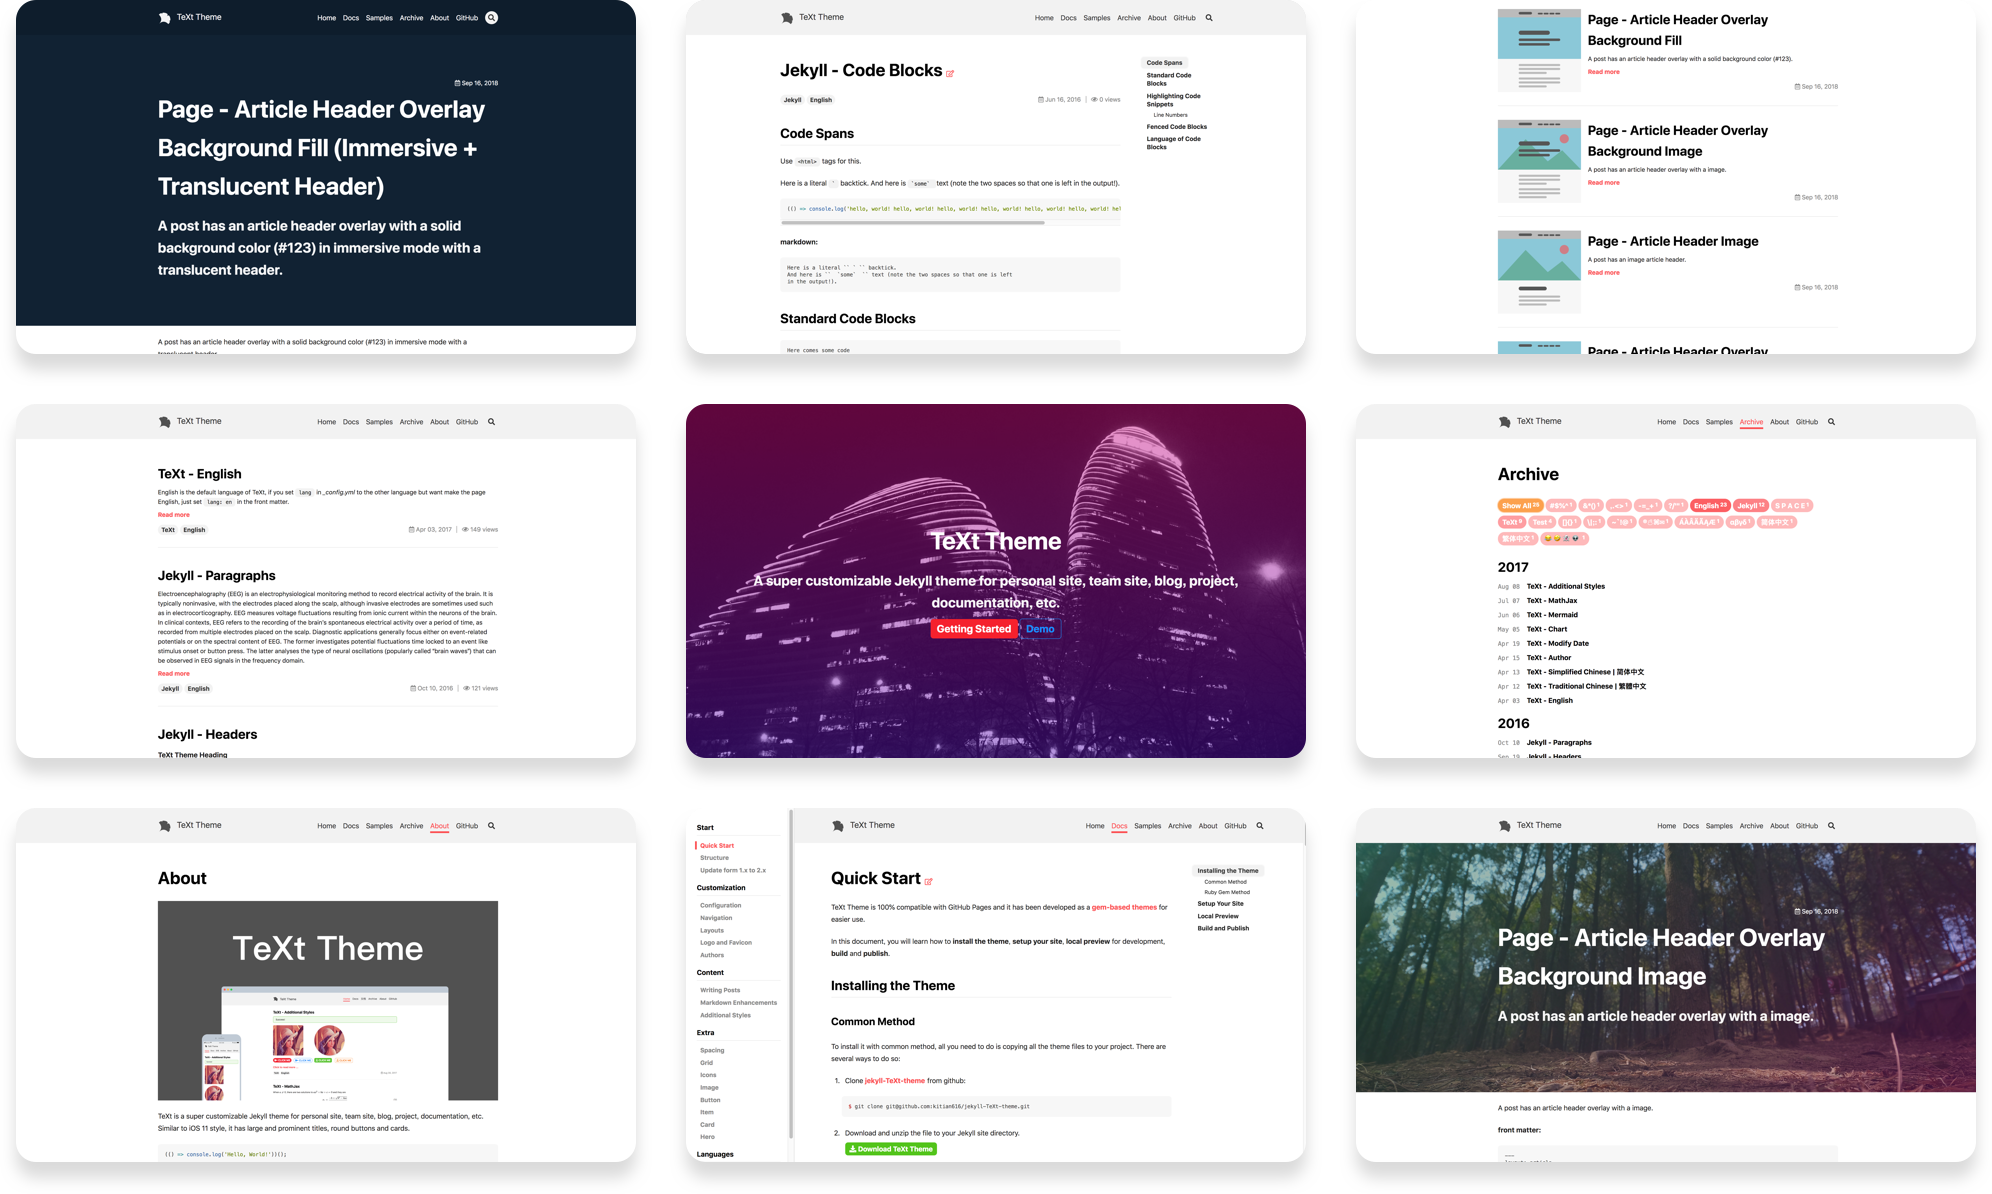
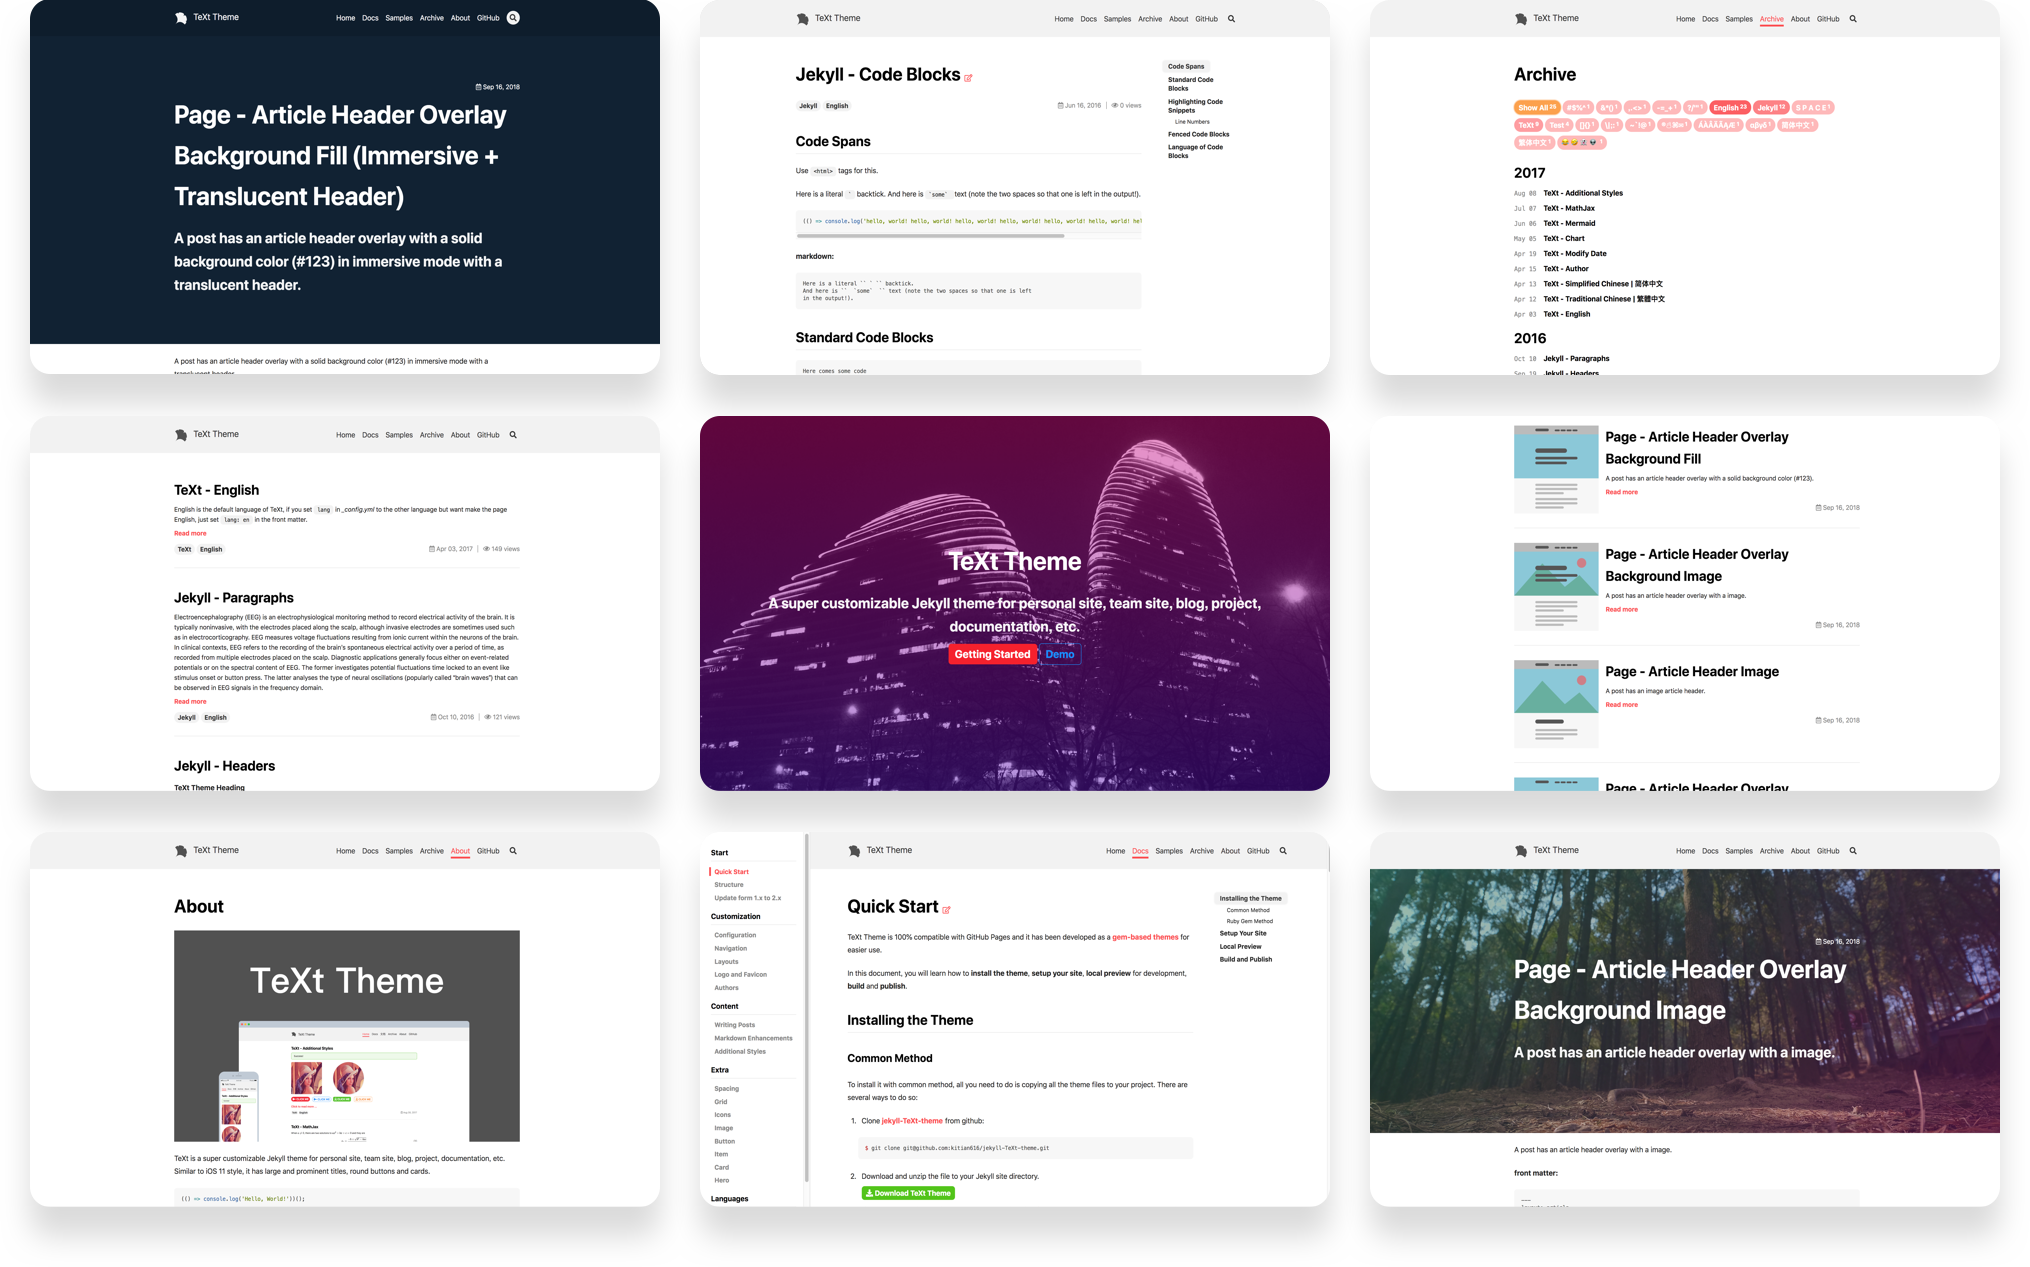
docs: update

diff --git a/docs/landing.html b/docs/landing.html
@@ -37,7 +37,7 @@ data:
         src: /screenshots/TeXt-layouts.png
         is_row: true
     - title: Skins
-      excerpt: TeXt has 6 built-in skins, You can also set up your own skin.
+      excerpt: TeXt has 6 built-in skins, you can also set up your own skin.
       background_color: transparent
       image:
         src: /screenshots/TeXt-skins.png
@@ -46,7 +46,7 @@ data:
       background_color: transparent
       children:
         - title: Additional styles
-          excerpt: TeXt offer some CSS classes that you can use in the post, including alert, photo frame, button and grid.
+          excerpt: TeXt offer some CSS classes that you can use in the post, including alert, tag, image, button, etc.
           actions:
             - text: Learn More
               url: /docs/en/additional-styles

diff --git a/about.md b/about.md
@@ -37,7 +37,7 @@ TeXt is a super customizable Jekyll theme for personal site, team site, blog, pr
 
 ## Skins
 
-TeXt has 6 built-in skins, You can also set up your own skin.
+TeXt has 6 built-in skins, you can also set up your own skin.
 
 | `default` | `dark` | `forest` |
 | --- |  --- | --- |

diff --git a/docs/_docs/en/2.1-configuration.md b/docs/_docs/en/2.1-configuration.md
@@ -23,7 +23,7 @@ theme: jekyll-text-theme
 
 ### Skin
 
-TeXt has 6 built-in skins, You can also set up your own skin.
+TeXt has 6 built-in skins, you can also set up your own skin.
 
 | `default` | `dark` | `forest` |
 | --- |  --- | --- |